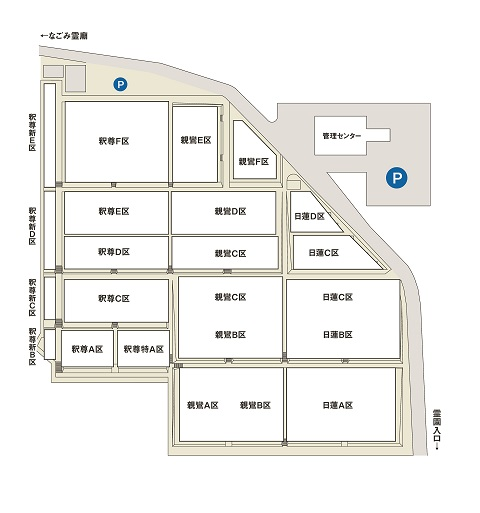
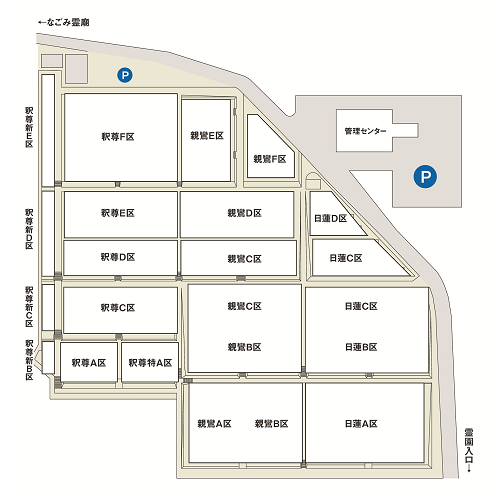
区画選択、予約のスマホ表示修正

Changed region(s): [[0.0312, 0.03, 0.9688, 0.96], [0.1875, 0.24, 0.2812, 0.3]]

diff --git a/wwwroot/js/PlotSelection.js b/wwwroot/js/PlotSelection.js
@@ -126,9 +126,22 @@ function calculateCenter(coordinates) {
 function isInsidePolygon(x, y, coordinates) {
     let inside = false;
     let i, j = coordinates.length - 1;
+
+    // (h)=(500) -> (h)=(400) *** #PlotSelectionContainer(height)のheightと同値を定義 ***
+    var baseHeight = 500;
+    var mapContainer = document.getElementById('PlotSelectionContainer');
+    var mapHeight = mapContainer.offsetHeight;
+    var corrRate = 1.0;
+    if (mapHeight < baseHeight) {
+        corrRate = mapHeight / baseHeight;
+    }
+
     for (i = 0; i < coordinates.length; i++) {
-        if ((coordinates[i].y > y) !== (coordinates[j].y > y) &&
-            x < (coordinates[j].x - coordinates[i].x) * (y - coordinates[i].y) / (coordinates[j].y - coordinates[i].y) + coordinates[i].x) {
+        var ix = coordinates[i].x * corrRate;
+        var iy = coordinates[i].y * corrRate;
+        var jx = coordinates[j].x * corrRate;
+        var jy = coordinates[j].y * corrRate;
+        if ((iy > y) !== (jy > y) && (x < (jx - ix) * (y - iy) / (jy - iy) + ix)) {
             inside = !inside;
         }
         j = i;

diff --git a/wwwroot/css/PlotSelection.css b/wwwroot/css/PlotSelection.css
@@ -34,7 +34,7 @@
     display: flex;
     position: relative; /* relativeに設定して子要素のabsolute配置を可能に */
     width: 100%;
-    height: 384px;
+    height: 500px;
     justify-content: center;
     align-items: center;
 }
@@ -80,3 +80,14 @@
     .back-button:hover {
         background-color: #FFC0CB;
     }
+
+@media (max-width: 520px) {
+    #PlotSelectionContainer {
+        width: 400px;
+        height: 400px;
+    }
+    #plotCanvas, #PlotSelectionImage {
+        width: 100%;
+        height: 100%;
+    }
+}

diff --git a/wwwroot/css/Reserve.css b/wwwroot/css/Reserve.css
@@ -321,4 +321,8 @@ button[type="submit"] {
         .confirm-table td span {
             display: block;
         }
+
+    .contact-options, .subscription-options {
+        display: block;
+    }
 }
